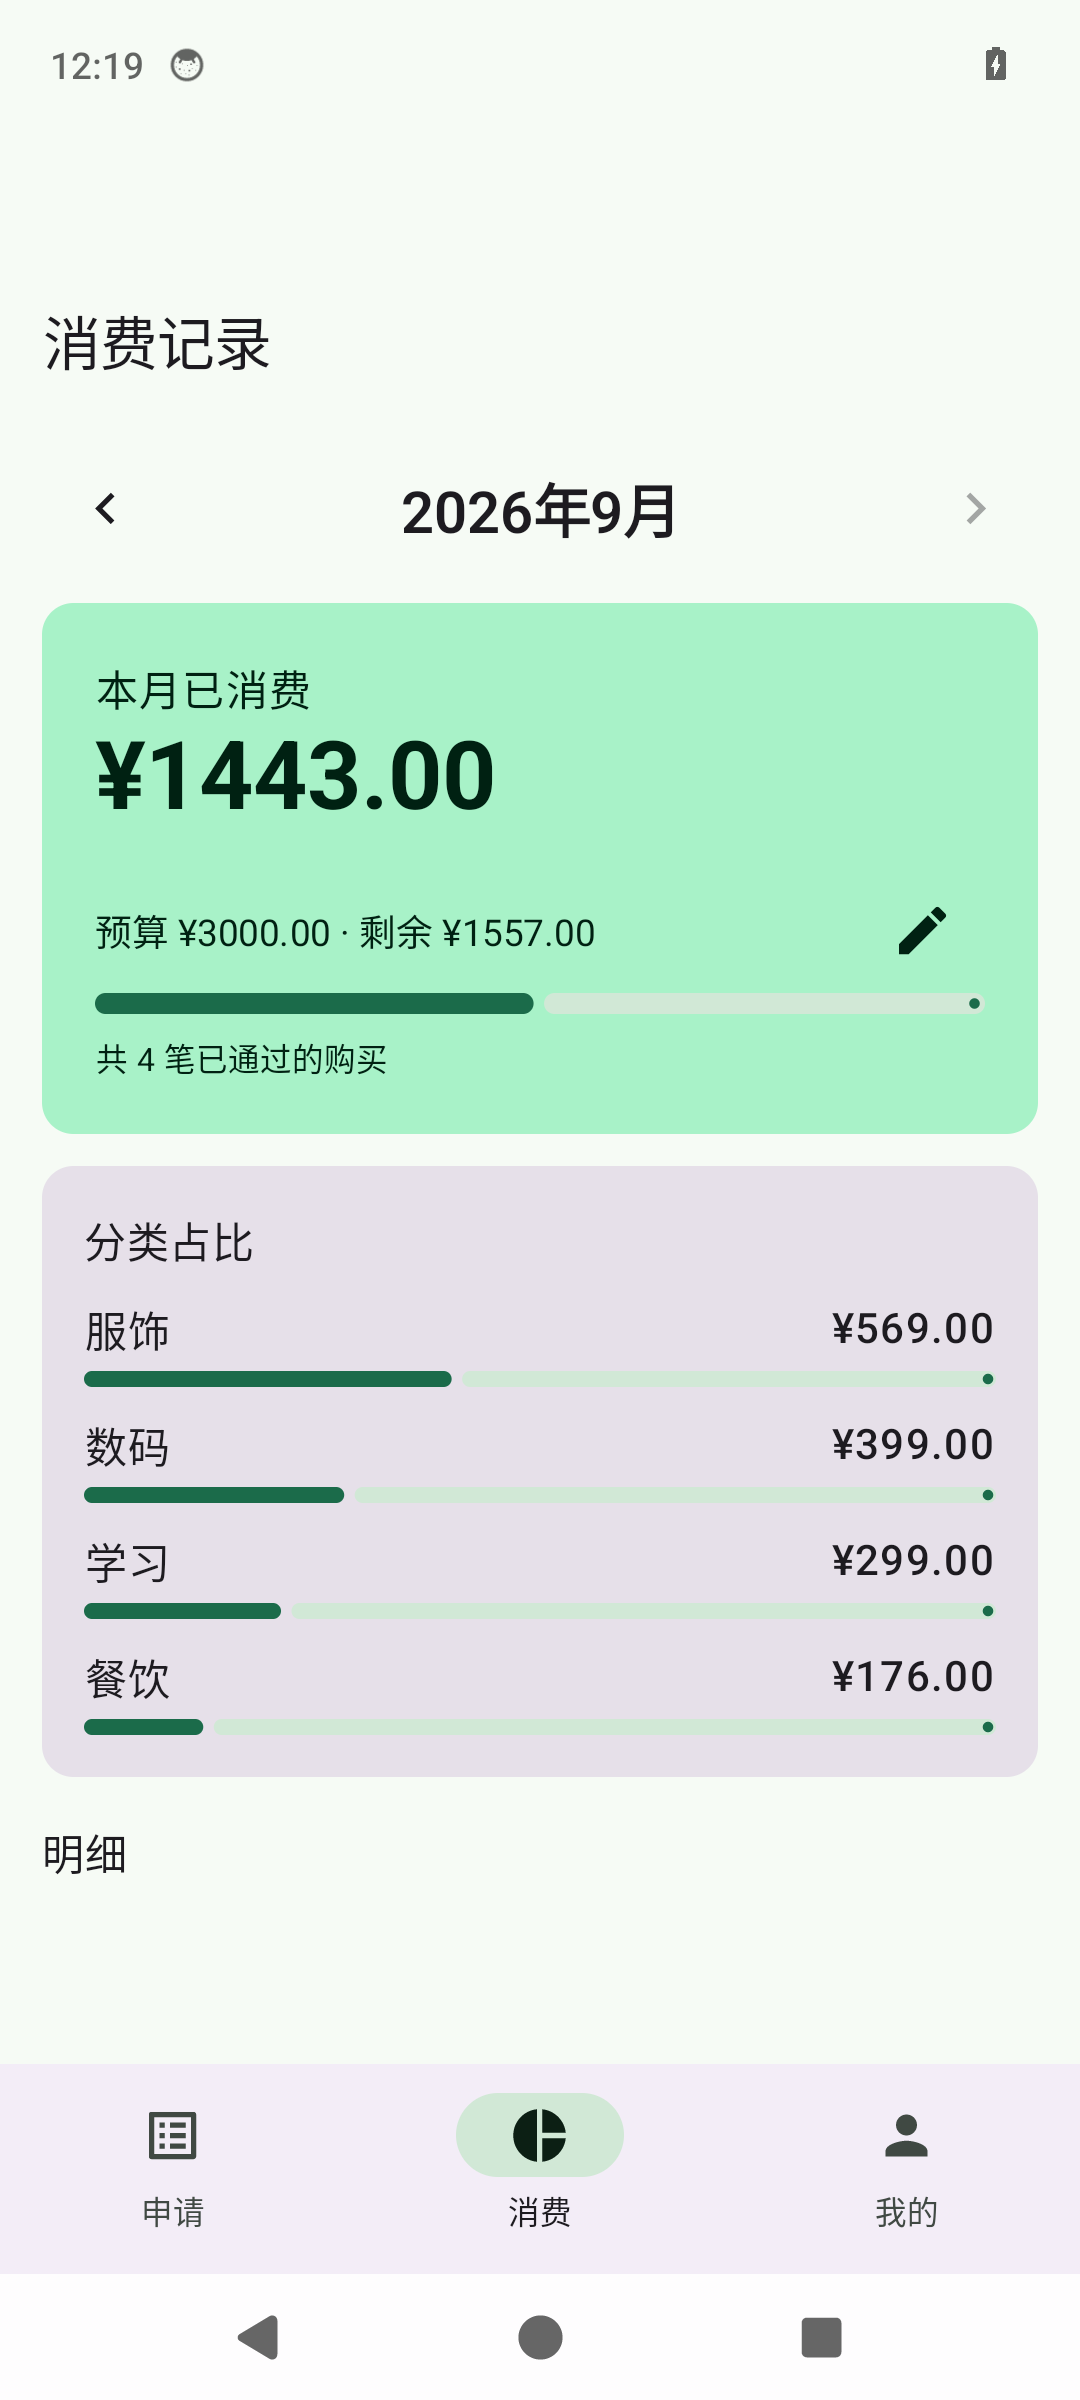
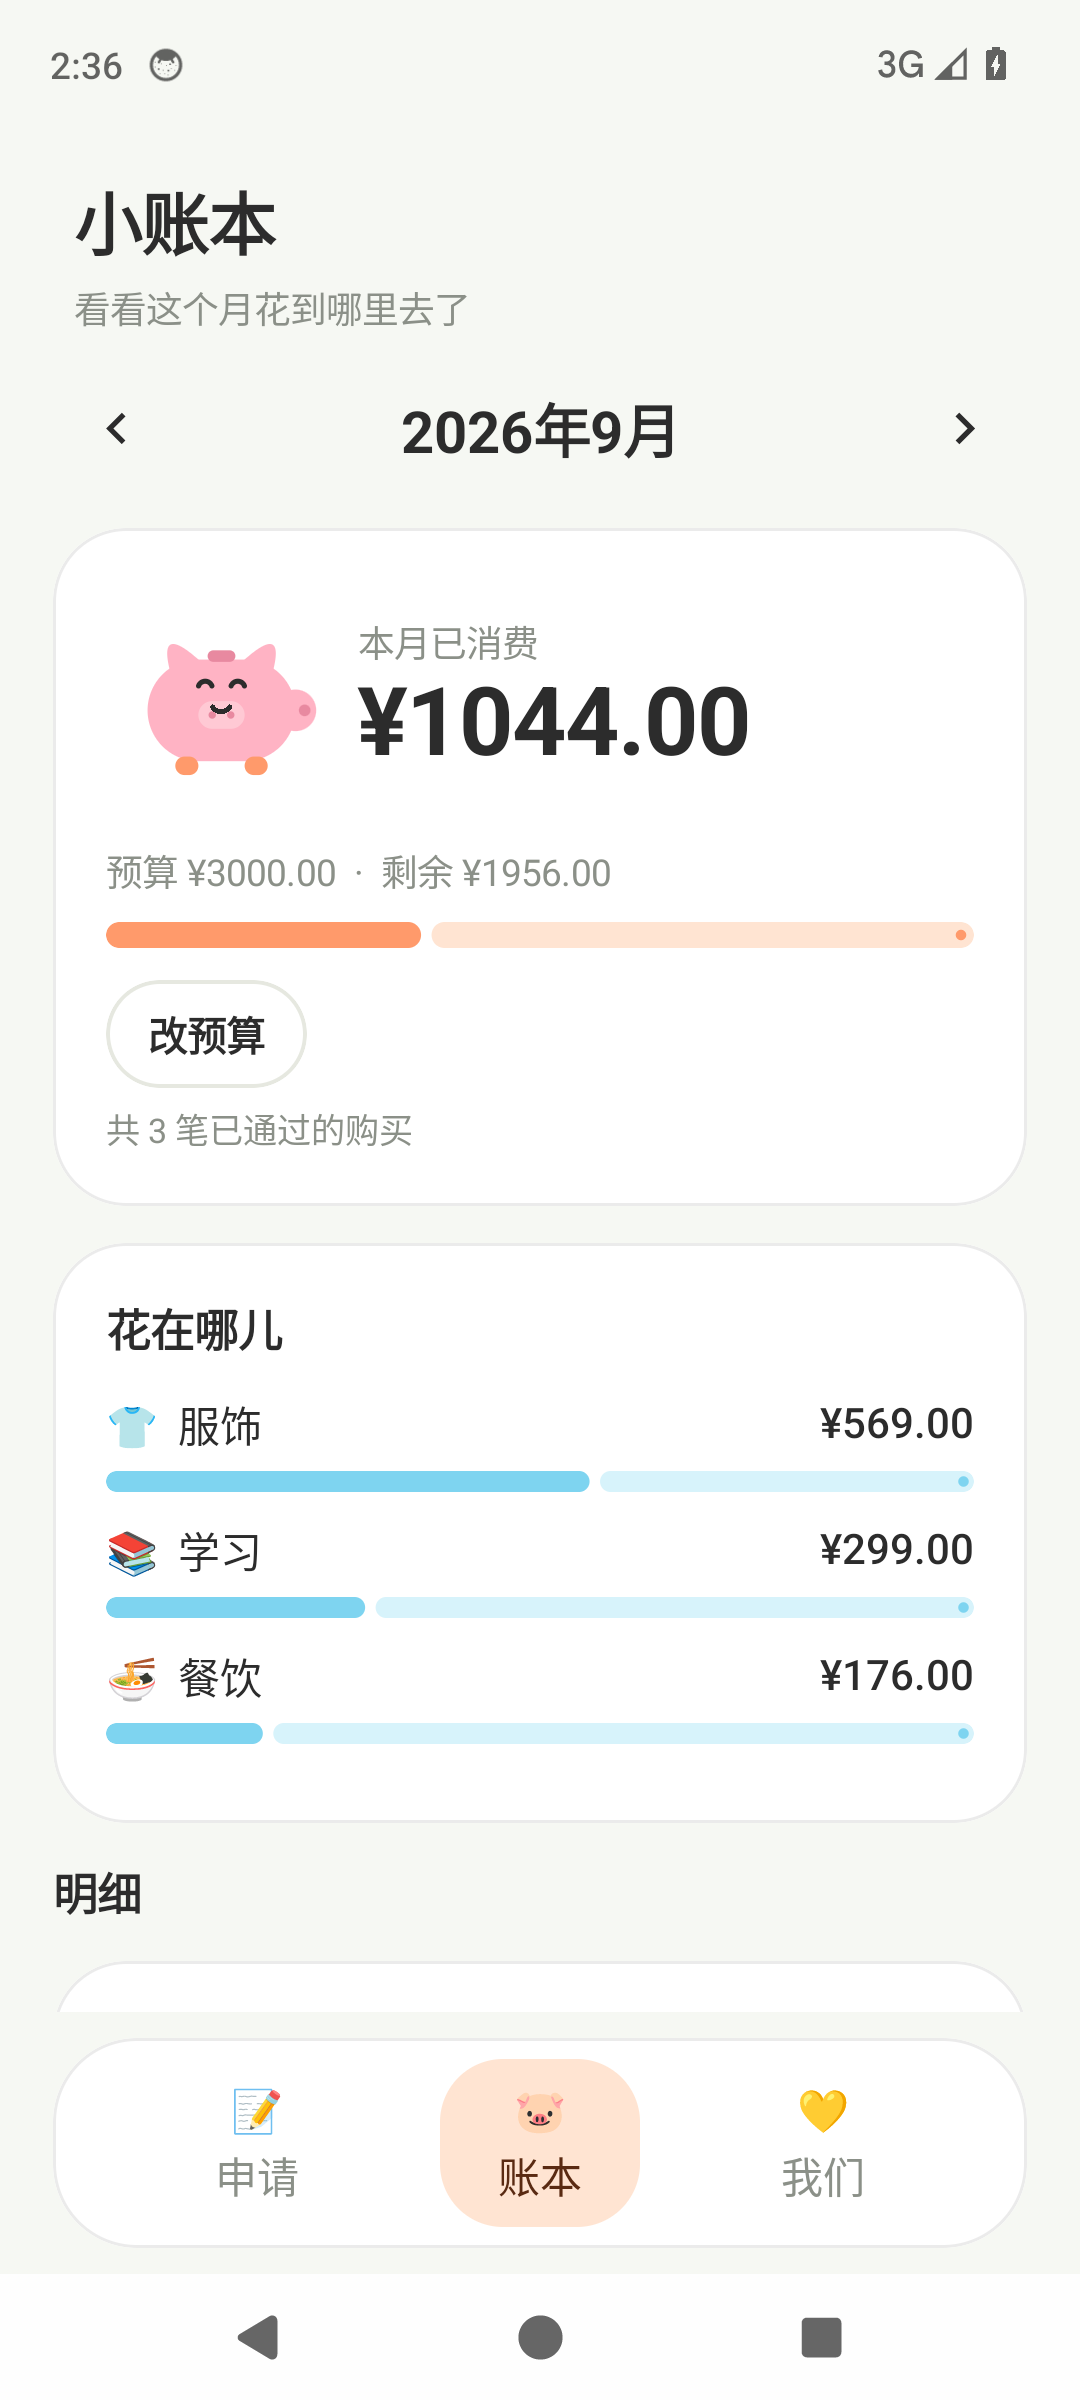
去掉重阴影以免模拟器卡顿，并更新柔和风格实机截图

diff --git a/app/src/main/java/com/savemoney/app/MainActivity.kt b/app/src/main/java/com/savemoney/app/MainActivity.kt
@@ -5,6 +5,7 @@ import androidx.activity.ComponentActivity
 import androidx.activity.compose.setContent
 import androidx.activity.enableEdgeToEdge
 import androidx.compose.foundation.background
+import androidx.compose.foundation.border
 import androidx.compose.foundation.clickable
 import androidx.compose.foundation.layout.Arrangement
 import androidx.compose.foundation.layout.Column
@@ -21,7 +22,6 @@ import androidx.compose.runtime.getValue
 import androidx.compose.ui.Alignment
 import androidx.compose.ui.Modifier
 import androidx.compose.ui.draw.clip
-import androidx.compose.ui.draw.shadow
 import androidx.compose.ui.graphics.Color
 import androidx.compose.ui.unit.dp
 import androidx.lifecycle.viewmodel.compose.viewModel
@@ -68,9 +68,9 @@ class MainActivity : ComponentActivity() {
                                 modifier = Modifier
                                     .windowInsetsPadding(WindowInsets.navigationBars)
                                     .padding(horizontal = 20.dp, vertical = 10.dp)
-                                    .shadow(16.dp, RoundedCornerShape(32.dp), ambientColor = Color(0x14000000), spotColor = Color(0x1A000000))
                                     .clip(RoundedCornerShape(32.dp))
                                     .background(Color.White)
+                                    .border(1.dp, Color(0x14000000), RoundedCornerShape(32.dp))
                                     .padding(horizontal = 8.dp, vertical = 8.dp)
                                     .fillMaxWidth(),
                                 horizontalArrangement = Arrangement.SpaceEvenly,

diff --git a/app/src/main/java/com/savemoney/app/ui/Components.kt b/app/src/main/java/com/savemoney/app/ui/Components.kt
@@ -31,7 +31,6 @@ import androidx.compose.runtime.Composable
 import androidx.compose.ui.Alignment
 import androidx.compose.ui.Modifier
 import androidx.compose.ui.draw.clip
-import androidx.compose.ui.draw.shadow
 import androidx.compose.ui.graphics.Color
 import androidx.compose.ui.text.font.FontWeight
 import androidx.compose.ui.unit.dp
@@ -58,9 +57,9 @@ fun SoftCard(
 ) {
     Column(
         modifier = modifier
-            .shadow(10.dp, RoundedCornerShape(28.dp), ambientColor = Color(0x14000000), spotColor = Color(0x1A000000))
             .clip(RoundedCornerShape(28.dp))
             .background(MaterialTheme.colorScheme.surface)
+            .border(1.dp, Color(0x14000000), RoundedCornerShape(28.dp))
             .then(if (onClick != null) Modifier.clickable(onClick = onClick) else Modifier)
             .padding(20.dp),
         content = content,

diff --git a/app/src/main/java/com/savemoney/app/ui/ExpensesScreen.kt b/app/src/main/java/com/savemoney/app/ui/ExpensesScreen.kt
@@ -65,7 +65,7 @@ fun ExpensesScreen(viewModel: AppViewModel) {
         Spacer(Modifier.height(12.dp))
         PageHeader("小账本", "看看这个月花到哪里去了")
         LazyColumn(
-            contentPadding = PaddingValues(bottom = 24.dp, top = 8.dp),
+            contentPadding = PaddingValues(bottom = 96.dp, top = 8.dp),
             verticalArrangement = Arrangement.spacedBy(14.dp),
         ) {
             item {

diff --git a/app/src/main/java/com/savemoney/app/ui/RequestListScreen.kt b/app/src/main/java/com/savemoney/app/ui/RequestListScreen.kt
@@ -86,7 +86,7 @@ fun RequestListScreen(
             }
         } else {
             LazyColumn(
-                contentPadding = PaddingValues(bottom = 24.dp),
+                contentPadding = PaddingValues(bottom = 96.dp),
                 verticalArrangement = Arrangement.spacedBy(12.dp),
                 modifier = Modifier.weight(1f),
             ) {

diff --git a/app/src/main/java/com/savemoney/app/ui/ProfileScreen.kt b/app/src/main/java/com/savemoney/app/ui/ProfileScreen.kt
@@ -85,6 +85,6 @@ fun ProfileScreen(viewModel: AppViewModel) {
             "数据只存在这台手机里。两个人共用时，来这里切换身份就好。",
             style = MaterialTheme.typography.bodySmall,
         )
-        Spacer(Modifier.height(24.dp))
+        Spacer(Modifier.height(96.dp))
     }
 }

diff --git a/README.md b/README.md
@@ -20,15 +20,15 @@
 
 ## 界面截图
 
-以下截图来自 Android 14（API 34）模拟器实机运行。
+奶油底、大圆角卡片、睡着的小金币和深色金色胶囊按钮，风格偏轻量生活 App。截图来自 Android 14 模拟器。
 
-| 申请列表（申请人） | 新建申请 | 申请详情（申请人可撤回） | 切换身份 |
-| --- | --- | --- | --- |
-| ![申请列表](docs/screenshots/request_list.png) | ![新建申请](docs/screenshots/new_request_form.png) | ![申请详情-申请人](docs/screenshots/request_detail_requester.png) | ![切换身份](docs/screenshots/profile_switch_role.png) |
+| 申请列表 | 新建申请 | 申请详情（申请人） |
+| --- | --- | --- |
+| ![申请列表](docs/screenshots/request_list.png) | ![新建申请](docs/screenshots/new_request_form.png) | ![申请详情-申请人](docs/screenshots/request_detail_requester.png) |
 
-| 审核人审核 | 审核结果 | 月度消费统计 | 消费明细 |
-| --- | --- | --- | --- |
-| ![审核](docs/screenshots/request_detail_approver.png) | ![审核结果](docs/screenshots/request_detail_approved.png) | ![月度消费](docs/screenshots/expenses_summary.png) | ![消费明细](docs/screenshots/expenses_detail.png) |
+| 审核人审核 | 小账本 | 我们俩 |
+| --- | --- | --- |
+| ![审核](docs/screenshots/request_detail_approver.png) | ![月度消费](docs/screenshots/expenses_summary.png) | ![切换身份](docs/screenshots/profile_switch_role.png) |
 
 ## 技术栈
 
